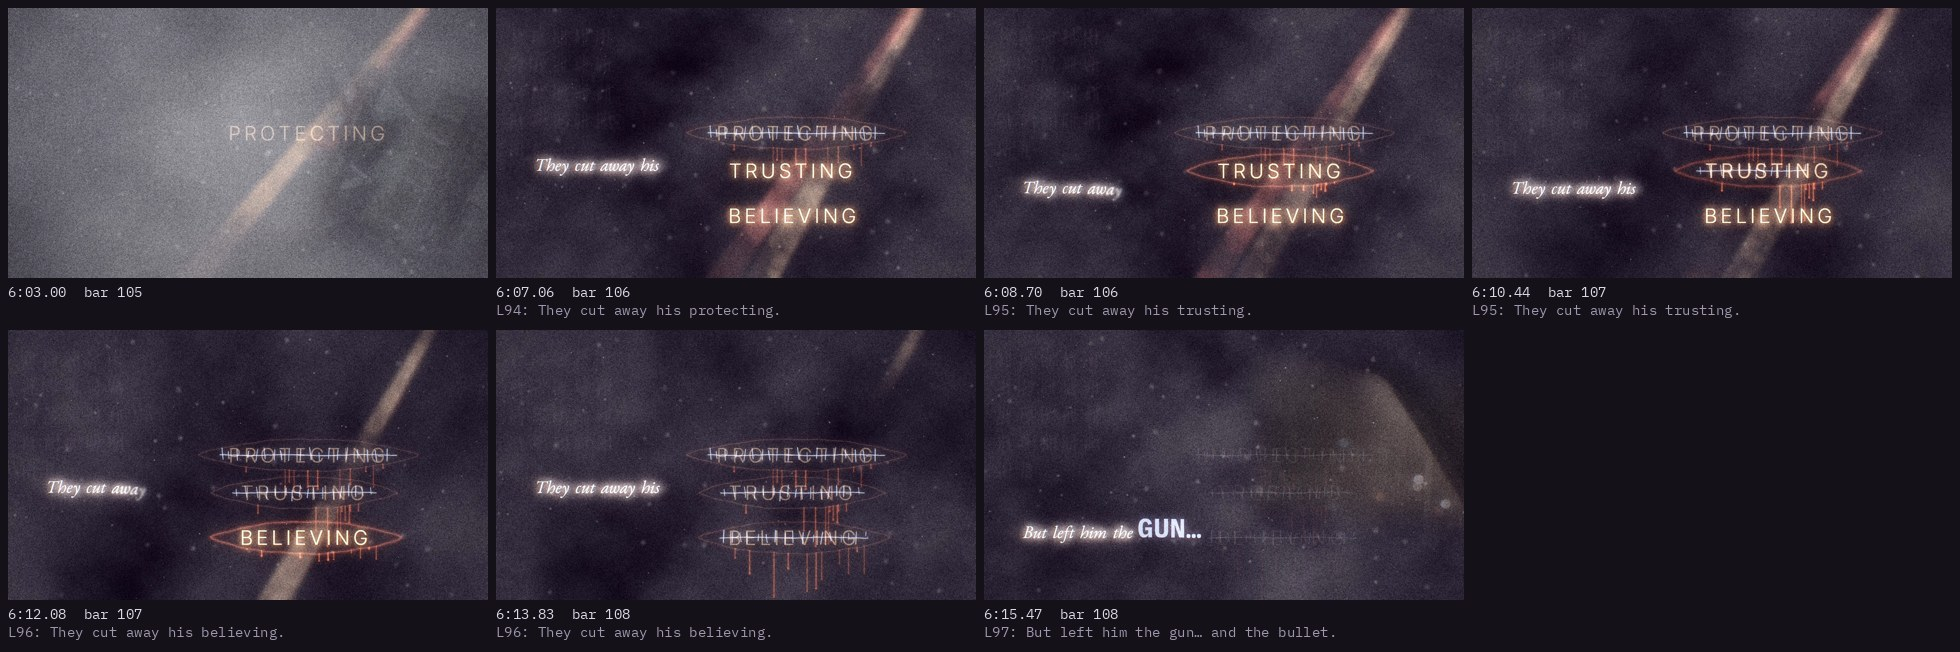
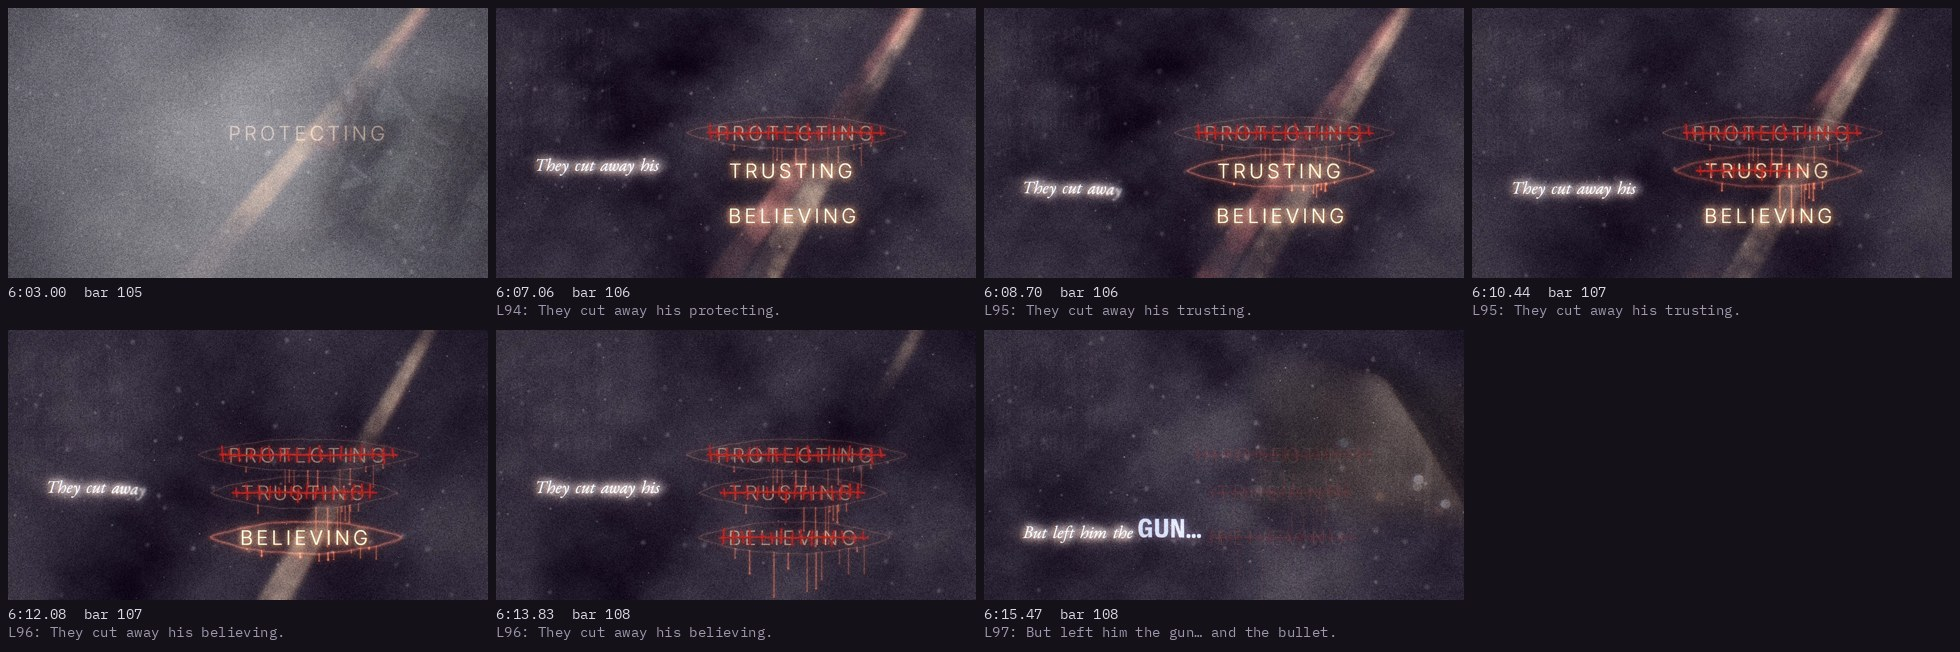
The Cutting: sutures in thick red thread with mass
Deep red, opaque over the word, with a contact shadow, a red glow and a wet
highlight; the strike and stitches are about three times heavier.

Claude-Session: https://claude.ai/code/session_013aPae8dR11r7xw8o95d9Yi

diff --git a/storyboard/index.html b/storyboard/index.html
@@ -150,7 +150,7 @@ ol.steps li::marker { font: 600 0.85rem var(--mono); color: var(--ink-2); }
   </video>
   <figcaption><b>The Cutting (chunk)</b>
     <span class="tc">6:03.0 → 6:16.2 · bars 105–108</span>
-    <span class="note">Revised cuts: surgical, then sewn shut. On each &#x27;cut&#x27; a scalpel traces a surgeon&#x27;s ellipse round his word in a few frames (the frame jolts), and the incision opens: his light wells out of it, redder, and runs down in drips. The word trembles while it is worked on. When she sings it, the wound is sewn shut over it: a strike runs through the word and small, uneven vertical stitches cross it as the thread passes, a strikeout and sutures at once (the coats&#x27; strike from White Coats III). His light chokes down under the stitches, the welling stops, and the shaft drains. The three sewn-shut virtues stay until &#x27;But left him the gun&#x27;. <a href="renders/the_cutting_cuts_contact.jpg">Contact sheet</a></span></figcaption>
+    <span class="note">Revised cuts: surgical, then sewn shut. On each &#x27;cut&#x27; a scalpel traces a surgeon&#x27;s ellipse round his word in a few frames (the frame jolts), and the incision opens: his light wells out of it, redder, and runs down in drips. The word trembles while it is worked on. When she sings it, the wound is sewn shut over it in thick red thread that sits on top of the word: a strike runs through it and short, uneven vertical stitches cross it as the thread passes, a strikeout and sutures at once (the coats&#x27; strike from White Coats III). His light chokes down under the stitches, the welling stops, and the shaft drains. The three sewn-shut virtues stay until &#x27;But left him the gun&#x27;. <a href="renders/the_cutting_cuts_contact.jpg">Contact sheet</a></span></figcaption>
 </figure>
 <figure class="render" id="render-the_cutting">
   <video controls playsinline preload="metadata" poster="renders/the_cutting_poster.jpg" width="1280" height="720">

diff --git a/video/sections.py b/video/sections.py
@@ -967,6 +967,8 @@ def _along(y):
 
 
 BLEED = np.array([1.0, 0.34, 0.14], np.float32)      # his light, opened: deeper, redder
+SUTURE = hexc("#7A0E0A")                               # the thread, red as the wound
+SUTURE_GLOW = np.array([0.85, 0.08, 0.05], np.float32)
 
 
 def _virtue_mask(k, txt):
@@ -1071,12 +1073,12 @@ def _sutures(k, wd):
         strike = [(float(x), cy + 1.8 * math.sin(0.021 * x + k) + float(rng.normal(0, 0.5))) for x in xs]
         stitches, x = [], x0 + float(rng.uniform(8, 20))
         while x < x1 - 8:
-            h = float(rng.uniform(26, 50))
+            h = float(rng.uniform(34, 60))
             lean = math.radians(float(rng.uniform(-9, 9)))
             yc = cy + float(rng.normal(0, 3.5))
             dx, dy = math.sin(lean) * h / 2, math.cos(lean) * h / 2
-            stitches.append((x, (x - dx, yc - dy, x + dx, yc + dy), float(rng.uniform(1.7, 2.8))))
-            x += float(rng.uniform(22, 46))
+            stitches.append((x, (x - dx, yc - dy, x + dx, yc + dy), float(rng.uniform(5.0, 7.5))))
+            x += float(rng.uniform(26, 50))
         return dict(strike=strike, stitches=stitches, x0=x0, x1=x1)
     return cached(("sutures", k), make)
 
@@ -1158,7 +1160,7 @@ def virtue_words(img, t, T, sung_words, cuts, scar_end):
                     for p_ in pts[1:]:
                         pth.lineTo(*p_)
                     c.drawPath(pth, skia.Paint(AntiAlias=True, Style=skia.Paint.kStroke_Style,
-                                               StrokeWidth=2.4, StrokeCap=skia.Paint.kRound_Cap,
+                                               StrokeWidth=6.5, StrokeCap=skia.Paint.kRound_Cap,
                                                Color4f=skia.Color4f(1, 1, 1, 1)))
                 for x, (xa, ya, xb, yb), sw in sut["stitches"]:
                     if x <= front:
@@ -1166,9 +1168,11 @@ def virtue_words(img, t, T, sung_words, cuts, scar_end):
                         c.drawLine(xa, ya, xa + (xb - xa) * u, ya + (yb - ya) * u, skia.Paint(
                             AntiAlias=True, StrokeWidth=sw, StrokeCap=skia.Paint.kRound_Cap,
                             Color4f=skia.Color4f(1, 1, 1, 1)))
-            sm = fx.skia_alpha(sew)
-            img = fx.add(img, kinetic.COLD, cv2.GaussianBlur(sm, (0, 0), 5) * 0.35 * hv)
-            img = fx.add(img, kinetic.COLD, cv2.GaussianBlur(sm, (0, 0), 0.7) * 1.05 * hv)
+            sm = fx.skia_alpha(sew)                              # thread with mass: it sits on
+            img = fx.over(img, np.float32(0.02), np.roll(cv2.GaussianBlur(sm, (0, 0), 3), 4, 0) * 0.6 * hv)
+            img = fx.add(img, SUTURE_GLOW, cv2.GaussianBlur(sm, (0, 0), 8) * 0.4 * hv)   # top of the word,
+            img = fx.over(img, SUTURE, np.clip(cv2.GaussianBlur(sm, (0, 0), 0.8) * 1.1, 0, 1) * hv)
+            img = fx.add(img, SUTURE_GLOW, cv2.GaussianBlur(np.roll(sm, -1, 0) * 0.3, (0, 0), 1.0) * hv)  # wet
     return img
 
 

diff --git a/storyboard/spec.py b/storyboard/spec.py
@@ -263,7 +263,7 @@ STYLE_FRAMES = [
 # Sections built so far: (slug, section name, note shown under the player)
 RENDERS = [
     ("the_cutting_cuts", "The Cutting",
-     "Revised cuts: surgical, then sewn shut. On each 'cut' a scalpel traces a surgeon's ellipse round his word in a few frames (the frame jolts), and the incision opens: his light wells out of it, redder, and runs down in drips. The word trembles while it is worked on. When she sings it, the wound is sewn shut over it: a strike runs through the word and small, uneven vertical stitches cross it as the thread passes, a strikeout and sutures at once (the coats' strike from White Coats III). His light chokes down under the stitches, the welling stops, and the shaft drains. The three sewn-shut virtues stay until 'But left him the gun'.",
+     "Revised cuts: surgical, then sewn shut. On each 'cut' a scalpel traces a surgeon's ellipse round his word in a few frames (the frame jolts), and the incision opens: his light wells out of it, redder, and runs down in drips. The word trembles while it is worked on. When she sings it, the wound is sewn shut over it in thick red thread that sits on top of the word: a strike runs through it and short, uneven vertical stitches cross it as the thread passes, a strikeout and sutures at once (the coats' strike from White Coats III). His light chokes down under the stitches, the welling stops, and the shaft drains. The three sewn-shut virtues stay until 'But left him the gun'.",
      (363.0, 376.2)),
     ("the_cutting", "The Cutting",
      "What they did to each of them, in her words. Out of the coats' white his three shafts pour back, with PROTECTING, TRUSTING and BELIEVING still lit where he set them in Spoken I (a memory of his offer). Each 'cut' slices a shaft at its word: below the slice the light falls away at once and the frame jolts, as on the stabs; above it the light withdraws into its source, and the word flares as she sings it and goes out to ash. He is left the GUN and the BULLET in the coats' type, and the bullet falls again, top-centre to bottom-centre at the same speed as before, which carries it out of frame exactly on 'But left HER the years'. What they take from her is cut out of her lines, leaving the gaps: 'They took her ___ to hug / ___ to run / Her ___ to see and ___ to hear'. Taking her eyes takes the focus; taking her ears stills the world (the drift, the fog, the grain). What they leave her is the years: her tally, sharp through the blur, brightening on each 'years'. 'Alone' in her serif with 'with time... with time...' overstruck in the coats' type: their phrase is now her condition. Her agains begin to double (the deaf ghosts of Refrain II). Then OF HIM... in his light on his side, and her... on hers. The clip starts 3.6 s early, in White Coats III's white, to show the hand-off.",
